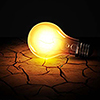
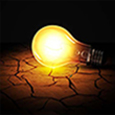
lampcenter

diff --git a/resources/views/home.blade.php b/resources/views/home.blade.php
@@ -12,9 +12,9 @@
             <div class="panel panel-default">
                 <div class="panel-heading">Home</div>
                 @if(Auth::check())
-                    <div class="panel-body">
+                    <div class="panel-body  col-md-2 col-md-offset-5">
                         <img  src="http://localhost:8000/images/Lamp1.jpg">
-                                You are logged in!
+                        You are logged in!
                     </div>
                     <div class="panel-body">
                         <marquee>
